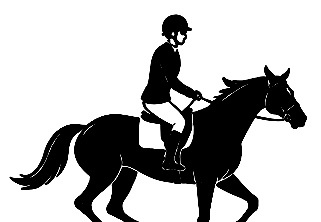
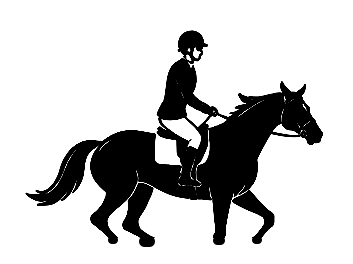
fix(design): les silhouettes de discipline ne sont plus rognees
Les cliparts de discipline etaient rognes DANS LE FICHIER : sabots coupes net sur
le bord bas du canevas, et roue du sulky tranchee pour l'attele. Affiches dans
une tuile ou en filigrane d'en-tete, ils donnaient partout l'impression d'une
image coupee — programme, palmares, fiche course.

Les quatre masques sont repares par script : chaque forme touchant le bord bas
est prolongee d'un embout arrondi (un sabot pour une jambe, 3 px pour refermer
l'arc de la roue sans la deformer), puis une marge transparente de 5 % est
ajoutee tout autour pour qu'aucun trait ne touche plus le cadre.

DisciplineIcon passe des PNG colores (fond blanc opaque, qui posait un rectangle
blanc dans les tuiles teintees) aux memes masques transparents, teintes a la
couleur de la discipline. Une seule source d'images pour tout le site.

Pages de controle visuel temporaires supprimees.

Changed region(s): [[0.0312, 0.2973, 0.9657, 1.0], [0.4673, 0.0541, 0.5919, 0.3784]]

diff --git a/frontend/src/components/ui/DisciplineIcon.tsx b/frontend/src/components/ui/DisciplineIcon.tsx
@@ -28,16 +28,32 @@ export function disciplineMeta(d: string) {
   return DISCIPLINE_META[k] ?? { color: "#6B7280", bg: "bg-gray-100", ring: "ring-gray-200", short: k };
 }
 
-/* Logos cheval par discipline (PNG dans /public/img/disciplines). */
+/* Silhouettes détourées par discipline (masques transparents). */
 const DISCIPLINE_IMG: Record<string, string> = {
-  Plat:      "/img/disciplines/plat.png",
-  "Attelé":  "/img/disciplines/attele.png",
-  Monté:     "/img/disciplines/monte.png",
-  Obstacle:  "/img/disciplines/obstacle.png",
-  Haies:     "/img/disciplines/obstacle.png",
-  Steeple:   "/img/disciplines/obstacle.png",
-  Cross:     "/img/disciplines/obstacle.png",
+  Plat:      "/img/disciplines/plat-m.png",
+  "Attelé":  "/img/disciplines/attele-m.png",
+  Monté:     "/img/disciplines/monte-m.png",
+  Obstacle:  "/img/disciplines/obstacle-m.png",
+  Haies:     "/img/disciplines/obstacle-m.png",
+  Steeple:   "/img/disciplines/obstacle-m.png",
+  Cross:     "/img/disciplines/obstacle-m.png",
 };
+
+/** Silhouette teintée : le PNG sert de masque, la couleur vient de la discipline. */
+function Silhouette({ url, color, className }: { url: string; color: string; className?: string }) {
+  return (
+    <span
+      aria-hidden="true"
+      className={className}
+      style={{
+        display: "inline-block",
+        background: color,
+        WebkitMask: `url(${url}) center/contain no-repeat`,
+        mask: `url(${url}) center/contain no-repeat`,
+      }}
+    />
+  );
+}
 
 /* ── Glyphes SVG (viewBox 0 0 32 24), trait = currentColor ── */
 function Glyph({ discipline }: { discipline: string }) {
@@ -161,8 +177,7 @@ export function DisciplineIcon({
       aria-label={discipline}
     >
       {img ? (
-        // eslint-disable-next-line @next/next/no-img-element
-        <img src={img} alt={discipline} className="h-full w-full object-contain" loading="lazy" />
+        <Silhouette url={img} color={m.color} className="h-full w-full" />
       ) : (
         <Glyph discipline={k} />
       )}
@@ -190,6 +205,5 @@ export function DisciplineImg({ discipline, className }: { discipline: string; c
       </span>
     );
   }
-  // eslint-disable-next-line @next/next/no-img-element
-  return <img src={img} alt={discipline} className={cn("object-contain align-middle", className)} loading="lazy" />;
+  return <Silhouette url={img} color={disciplineMeta(discipline).color} className={cn("align-middle", className)} />;
 }
